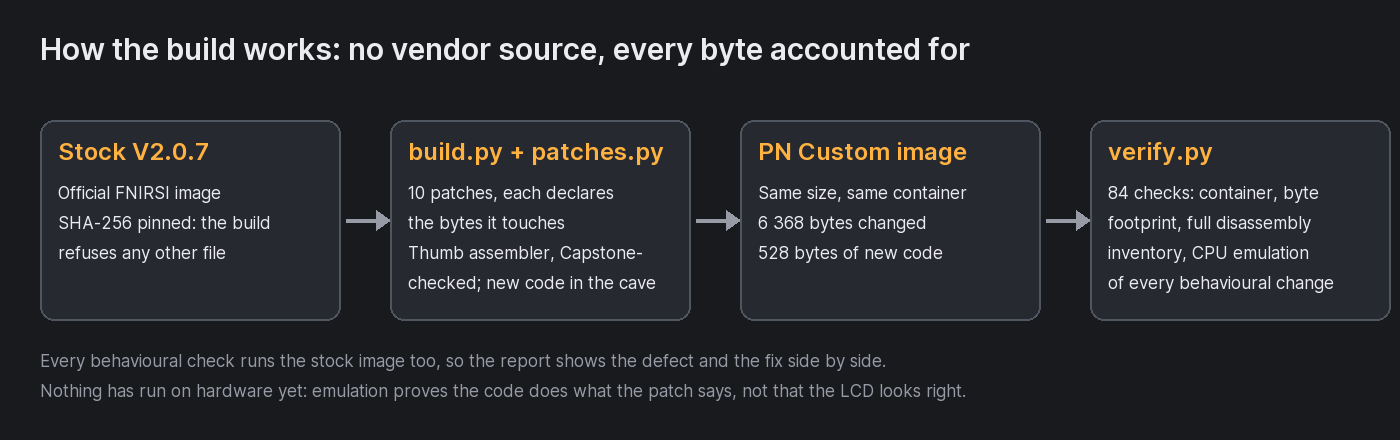
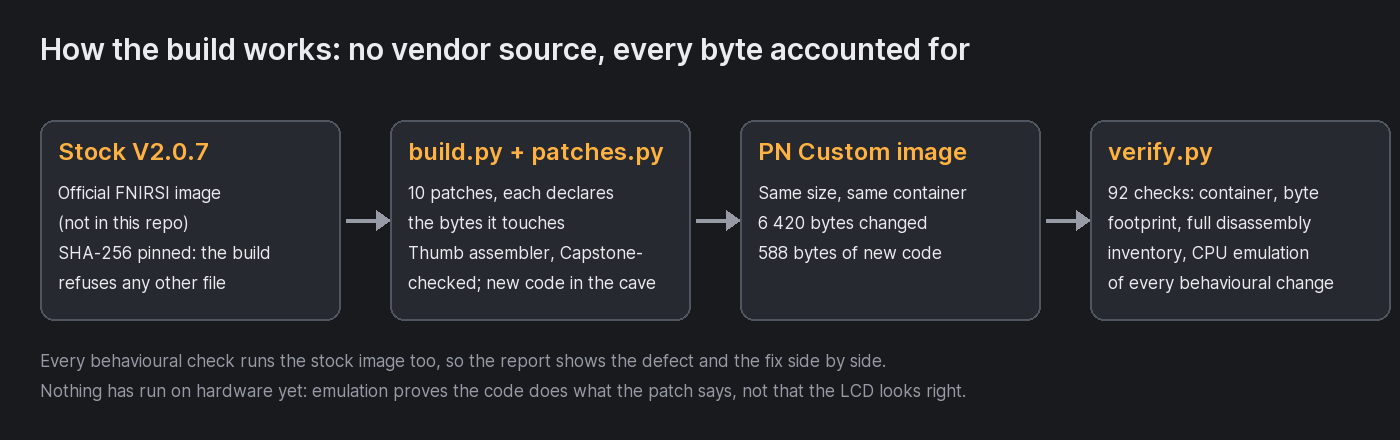
Hold Auto Off during SCAN tone / FLASH blink sessions (mod 4)
Stock already resets the auto-off idle counter on every key event
(Action_key_Process ends with autooff_timer_reset), so mod 1's
autooff-keyreset patch was redundant and its description was wrong.
It is removed.

What stock lacks is a pause while the unit is deliberately left alone
to do a job: the idle counter kept running during the SCAN tone and
the FLASH port-blink, so a trace ended with the tester switching
itself off. The new autooff-hold patch routes home_1s_housekeeping's
state read through the cave: while the state is SCAN with the tone
enabled, or FLASH with the blink running, it reports OFF (no counting)
and clears the counter so the full timeout applies afterwards.

verify.py section 4 now proves both facts: a key event through the
stock dispatcher resets the counter on stock and mod alike, and the
housekeeping holds only in SCAN/FLASH with the session flags set.
92 checks. Documents, audit and README corrected; image hash updated.

diff --git a/LPM-10A/Firmware File/sdk/verify.py b/LPM-10A/Firmware File/sdk/verify.py
@@ -9,7 +9,7 @@ Checks, in order:
   2  only the intended bytes differ from stock
   3  the whole image still disassembles into the same function inventory
      (a desync here would mean a patch shifted or corrupted code)
-  4  behavioural check of the auto-off fix under CPU emulation
+  4  auto-off: stock key-path reset (corrected claim) and the hold during tone / blink
   5  behavioural check of the boot-language default under CPU emulation
   6  length unit conversion (m / cm / ft, fixed point) against a reference model
   7  length on-screen text, produced by the firmware's own sprintf
@@ -149,7 +149,7 @@ except ImportError:
     check(False, "capstone not available")
 
 # ---------------------------------------------------------------- 4 & 5
-print("\n4. behaviour under emulation")
+print("\n4. auto-off: what stock really does, and the hold during tone / blink")
 try:
     from unicorn import Uc, UC_ARCH_ARM, UC_MODE_THUMB, UC_MODE_MCLASS
     from unicorn.arm_const import UC_ARM_REG_SP, UC_ARM_REG_LR, UC_ARM_REG_R0, UC_ARM_REG_PC
@@ -171,18 +171,56 @@ try:
         uc.emu_start(entry | 1, MAGIC, count=400)
         return uc
 
-    def setup_idle(uc):
-        uc.mem_write(0x2000013C, b"\x02")                       # sysState = HOME
+    # 4a. the corrected fact: stock resets the idle counter on every key event
+    #     (Action_key_Process -> autooff_timer_reset), so no key-reset patch is needed.
+    KEYBUF4 = 0x20003300
+    for label, buf in (("stock", stock), ("mod", mod)):
+        uc = Uc(UC_ARCH_ARM, UC_MODE_THUMB | UC_MODE_MCLASS)
+        o, ln = struct.unpack_from("<II", buf, 0x20)
+        uc.mem_map(0x08000000, 0x80000); uc.mem_map(0x20000000, 0x10000); uc.mem_map(MAGIC & ~0xFFF, 0x1000)
+        uc.mem_write(S.APP_BASE, buf[o:o + ln])
+        uc.mem_write(0x2000013C, bytes([4]))                     # sysState = CABLE (UP is unbound there)
         uc.mem_write(0x20000178, struct.pack("<H", 250))        # idle 250 s
-        uc.mem_write(0x200001A0, struct.pack("<I", 1234567))    # ms clock
-
-    for label, buf, want in (("stock", stock, 250), ("mod", mod, 0)):
-        uc = run(buf, S.FUNCS and 0x080116BC, setup_idle, r0=0x64)
+        uc.mem_write(KEYBUF4, bytes([2, 3]))                     # UP, click
+        uc.reg_write(UC_ARM_REG_SP, 0x2000E000); uc.reg_write(UC_ARM_REG_LR, MAGIC | 1)
+        uc.reg_write(UC_ARM_REG_R0, KEYBUF4)
+        uc.emu_start(0x080149FC | 1, MAGIC, count=200000)
         ctr = struct.unpack("<H", uc.mem_read(0x20000178, 2))[0]
-        dim = struct.unpack("<I", uc.mem_read(0x20000150, 4))[0]
-        ok = ctr == want and dim == 1234567 and uc.reg_read(UC_ARM_REG_PC) == (MAGIC & ~1)
-        check(ok, f"key press, {label:5}: auto-off 250 -> {ctr}",
-              "(expected: unchanged)" if want else "(expected: reset)")
+        check(ctr == 0 and uc.reg_read(UC_ARM_REG_PC) == (MAGIC & ~1),
+              f"{label:5}: any key event through Action_key_Process resets auto-off 250 -> {ctr}")
+
+    # 4b. the fix: the once-per-second housekeeping holds while a session runs
+    HOUSEKEEP = 0x0800F968
+    def tick(buf, state, tone=0, busy1=0, ctr=100, idx=1):
+        uc = Uc(UC_ARCH_ARM, UC_MODE_THUMB | UC_MODE_MCLASS)
+        o, ln = struct.unpack_from("<II", buf, 0x20)
+        uc.mem_map(0x08000000, 0x80000); uc.mem_map(0x20000000, 0x10000); uc.mem_map(MAGIC & ~0xFFF, 0x1000)
+        uc.mem_write(S.APP_BASE, buf[o:o + ln])
+        uc.mem_write(0x20000C78 + 0xA2, bytes([idx]))            # auto_off_idx (1 = 5 min)
+        uc.mem_write(0x2000013C, bytes([state]))
+        uc.mem_write(0x200000D0, bytes([tone]))                  # scan_state[0]: tone enabled
+        uc.mem_write(0x200002B5, bytes([busy1]))                 # test_busy_flags[1]: 2 = blink running
+        uc.mem_write(0x20000178, struct.pack("<H", ctr))
+        uc.reg_write(UC_ARM_REG_SP, 0x2000E000); uc.reg_write(UC_ARM_REG_LR, MAGIC | 1)
+        uc.emu_start(HOUSEKEEP | 1, MAGIC, count=5000)
+        return struct.unpack("<H", uc.mem_read(0x20000178, 2))[0]
+    cases = [  # (state, tone, busy1, stock expected, mod expected, label)
+        (5, 1, 0, 101, 0,   "SCAN, tone on         "),
+        (5, 0, 0, 101, 101, "SCAN, tone off        "),
+        (8, 0, 2, 101, 0,   "FLASH, blink running  "),
+        (8, 0, 0, 101, 101, "FLASH, blink finished "),
+        (2, 1, 2, 101, 101, "HOME (flags stale)    "),
+        (7, 0, 0, 101, 101, "LENGTH                "),
+    ]
+    for state, tone, busy1, want_s, want_m, label in cases:
+        got_s, got_m = tick(stock, state, tone, busy1), tick(mod, state, tone, busy1)
+        check((got_s, got_m) == (want_s, want_m),
+              f"{label} idle 100 s -> stock {got_s:3}, mod {got_m:3}",
+              "(held, counter restarted)" if want_m == 0 else "(counts as before)")
+    got = tick(mod, 5, 1, 0, ctr=299)
+    check(got == 0, "SCAN tone on at 299 s of a 300 s timeout: no power-off, counter cleared", f"{got}")
+    got = tick(mod, 5, 1, 0, idx=0)
+    check(got == 100, "Auto Off = OFF: routine returns before the hook, counter untouched", f"{got}")
 
     print("\n5. factory defaults under emulation")
     for label, buf, want in (("stock", stock, 1), ("mod", mod, 0)):

diff --git a/LPM-10A/Firmware File/sdk/patches.py b/LPM-10A/Firmware File/sdk/patches.py
@@ -32,28 +32,66 @@ def patch(pid, title, risk, default=True, group="misc"):
 # Group: correctness fixes
 # =====================================================================
 
-@patch("autooff-keyreset", "Auto Off no longer fires while the unit is in use",
+@patch("autooff-hold", "Auto Off is held while a SCAN tone or FLASH blink session is running",
        risk="low", group="bugfix")
-def p_autooff(img):
+def p_autooff_hold(img):
     """
-    key_activity_notify() (0x080116BC) runs on every processed key action.  It
-    refreshed the backlight-dim timer at 0x20000150 but never cleared the
-    auto-off idle counter at 0x20000178, so Auto Off counted from power-on
-    rather than from the last user input.
+    Stock already resets the auto-off idle counter on every key event
+    (Action_key_Process ends with autooff_timer_reset, 0x08014ACE) and after
+    every Length / Speed result.  What it never does is pause the counter
+    while the unit is deliberately left alone to do a job: the SCAN tone and
+    the FLASH port-blink keep running while home_1s_housekeeping counts, so
+    with Auto Off at 5 / 10 / 15 min the tester switches itself off in the
+    middle of a cable trace.  Professional toners keep the tone alive until
+    it is stopped.
 
-    r1 already holds 0x20000150 at the tail of the function and the counter is
-    at r1+0x28, so the reset fits in the 6 bytes of dead tail (nop + branch +
-    alignment padding) without moving anything.
+    home_1s_housekeeping (0x0800F968, once per second) reads the system
+    state and stops counting when it is 0 (OFF).  The `movs r0,#0; bl
+    get_sysState` that fetches the state is redirected to a cave routine that
+    returns 0 instead of the real state while
+
+        state == SCAN  (5) and scan_state[0] != 0      (tone enabled), or
+        state == FLASH (8) and test_busy_flags[1] == 2 (blink running),
+
+    and in that case also clears the idle counter, so the full timeout is
+    available again once the session ends.  Everywhere else the state is
+    returned unchanged and the behaviour is stock.
+
+    (Mod 1's `autooff-keyreset` patch, which this replaces, added a second
+    key-press reset that stock did not need.  Its description was wrong.)
     """
     from lpm10a.thumb import assemble
-    site = 0x080116D6
-    code = assemble(site, """
+
+    hook = img.emit_code("""
+    autooff_state:              ; -> r0 = sysState, or 0 while a tone / blink session is running
+            push {r4, lr}
             movs r0, #0
-            strh r0, [r1, #0x28]     ; auto_off_ctr = 0
-            b    0x080116C8          ; -> pop {r4, pc}
-    """)
-    assert len(code) == 6
-    img.poke(site, "00bf f6e7 0000", code, "reset auto-off idle timer on key input")
+            bl   get_sysState
+            mov  r4, r0
+            cmp  r0, #5             ; SCAN
+            bne  not_scan
+            ldr  r1, =scan_state
+            ldrb r1, [r1]           ; [0] = tone enabled
+            cmp  r1, #0
+            beq  out
+            b    hold
+    not_scan:
+            cmp  r0, #8             ; FLASH
+            bne  out
+            ldr  r1, =test_busy_flags
+            ldrb r1, [r1, #1]       ; 2 = port blink running
+            cmp  r1, #2
+            bne  out
+    hold:   movs r4, #0             ; report OFF: no idle counting this second
+            ldr  r1, =auto_off_ctr
+            strh r4, [r1]           ; and restart the timeout for afterwards
+    out:    mov  r0, r4
+            pop  {r4, pc}
+    """, why="auto-off: hold while SCAN tone / FLASH blink is active")
+
+    site = 0x0800F974
+    img.poke(site, "0020 fff7f5fe", assemble(site, f"bl 0x{hook:08X}\n nop"),
+             "home_1s_housekeeping: state via the hold check")
 
 
 # =====================================================================

diff --git a/LPM-10A/Firmware File/sdk/lpm10a/symbols.py b/LPM-10A/Firmware File/sdk/lpm10a/symbols.py
@@ -113,7 +113,8 @@ FUNCS = {
     0x0800F968: "home_1s_housekeeping",   # auto-off countdown
     0x0800F9C0: "autooff_timer_reset",    # auto_off_ctr = 0
     0x0800F9CC: "backlight_dim_update",
-    0x080116BC: "key_activity_notify",    # runs on every key action
+    0x080116BC: "key_activity_notify",    # runs on every dispatched action (backlight dim timer)
+    # note: Action_key_Process (0x080149FC) ends with autooff_timer_reset for EVERY key event
     0x080130A8: "test_in_progress",       # 1 while a measurement is running
 
     # --- power / battery -----------------------------------------------------
@@ -240,7 +241,7 @@ VARS = {
     0x20000076: ("leng_led_phase", 1),
     0x200000AC: ("poe_task_handle", 4),
     0x200000B0: ("poe_queue", 4),
-    0x200000D0: ("scan_state", 4),
+    0x200000D0: ("scan_state", 4),            # [0] tone enabled, [1] cadence 1/2, [3] display toggle
     0x200000D8: ("scan_tick", 4),
     0x2000013C: ("sysState", 1),              # 0=off 2=home 4..11=function screens
     0x20000140: ("home_task_handle", 4),
@@ -264,7 +265,7 @@ VARS = {
     0x20000200: ("xFreeBytesRemaining", 4),
     0x2000020C: ("xNumberOfSuccessfulFrees", 4),
     0x2000021C: ("cnt_baseline", 0x24),       # wiremap open-circuit reference
-    0x200002B4: ("test_busy_flags", 2),       # [0]=flash busy [1]=leng/speed busy
+    0x200002B4: ("test_busy_flags", 2),       # [0]=length 0/1/2/3 [1]=speed/flash: 1 running, 2 = FLASH blink active, 3 done
     0x200002B6: ("phy_status_reg11", 2),      # last PHY reg 0x11 read (speed/duplex)
     0x200002B8: ("leng_last_result_cm", 8),   # 4 channels
     0x200002C0: ("leng_unit_idx", 1),         # index into unit table at 0x2000005C (ZI -> 0 at boot)

diff --git a/README.md b/README.md
@@ -5,9 +5,9 @@
 **An unofficial, industrial-grade firmware for the FNIRSI LPM-10A network cable tester,
 built by patching the official V2.0.7 image and proving every change by CPU emulation.**
 
-![firmware](https://img.shields.io/badge/firmware-V2.0.7--mod3-orange)
+![firmware](https://img.shields.io/badge/firmware-V2.0.7--mod4-orange)
 ![patches](https://img.shields.io/badge/patches-10-blue)
-![verified](https://img.shields.io/badge/verify.py-84%20checks%20pass-brightgreen)
+![verified](https://img.shields.io/badge/verify.py-92%20checks%20pass-brightgreen)
 ![hardware](https://img.shields.io/badge/hardware%20test-pending-red)
 ![license](https://img.shields.io/badge/tooling%20license-MIT-lightgrey)
 
@@ -19,7 +19,7 @@ built by patching the official V2.0.7 image and proving every change by CPU emul
 
 > **Status: verified by emulation, not yet flashed to a real unit.**
 > Every change was checked by disassembly and by running the firmware's own code under a
-> Cortex-M emulator (84 checks). That proves the code does what each patch says; it does
+> Cortex-M emulator (92 checks). That proves the code does what each patch says; it does
 > not prove the LCD looks right. Flash at your own risk, and read
 > [How to go back to stock](#going-back-to-stock) first.
 
@@ -27,8 +27,8 @@ built by patching the official V2.0.7 image and proving every change by CPU emul
 
 The LPM-10A is a capable tester (Motorcomm YT8531 PHY, TDR length, PoE, wiremap) let down
 by its firmware: length shown in whole metres, no cable calibration, a low-battery
-shutdown armed by a single noisy ADC sample, an Auto-Off that switched the unit off while
-it was in use, a heap leak on every settings save, and the thin serif "dev-board" font.
+shutdown armed by a single noisy ADC sample, an Auto-Off that cut cable-tracing sessions
+short, a heap leak on every settings save, and the thin serif "dev-board" font.
 There is no vendor source, so this project works on the shipped binary: it disassembles
 it, adds code in an unused flash tail, re-assembles, and verifies the result in place.
 
@@ -41,7 +41,7 @@ it, adds code in an unused flash tail, re-assembles, and verifies the result in 
 | Length result | a new reading inside the tolerance band was replaced by the previous cable's value | the measured value is always shown |
 | Low battery | one sample < 3150 mV starts an uncancellable 30 s shutdown | needs 3 consecutive samples; cancels when the pack recovers ≥ 3250 mV |
 | Battery gauge | 4 steps | 10-step Li-ion curve, red at ≤ 20 % |
-| Auto Off | counted from power-on, never reset by keys | any key press resets it |
+| Auto Off | keeps counting while the SCAN tone or FLASH blink is running, so a trace ends with the unit switching itself off | held (and restarted) while a tone or blink session is active; unchanged elsewhere |
 | Settings save | 204 bytes leaked per save | freed on both exit paths |
 | Fonts | thin serif 8×16 ASCII, Song-style Chinese | **Ubuntu Sans Mono** (8×16, 6×12) and **Droid Sans Fallback** (16×16), both open-licensed |
 | Language | Chinese/English picker on first boot | boots to English; both languages kept, machine-translated strings corrected |
@@ -73,7 +73,7 @@ in the same cells so no screen layout changes.
 1. Verify the download:
    ```
    certutil -hashfile LPM-10A-TX_V2.0.7-mod_260610.bin SHA256
[2 lines of base64/hex data omitted]
    ```
 2. Power the tester off. Hold **M + Power** until the firmware update screen appears.
 3. Connect USB-C; a removable drive appears.
@@ -136,7 +136,7 @@ python test_thumb.py                # assembler self-test against Capstone
 python build.py --list              # the patch set
 python build.py                     # dry run: every byte it would change, disassembled
 python build.py --write             # emit LPM-10A-TX_V2.0.7-mod_260610.bin
-python verify.py                    # 84 checks
+python verify.py                    # 92 checks
 ```
 
 `build.py --only a,b` builds a subset; every patch is independent. `build.py` refuses to
@@ -147,7 +147,7 @@ What `verify.py` proves, section by section:
 | § | check | how |
 |---|---|---|
 | 1–3 | container, byte footprint, full disassembly inventory | any byte changed without being declared by a patch fails |
-| 4–5 | auto-off reset, factory defaults | run the functions, read the counters |
+| 4–5 | auto-off hold, factory defaults | a key event through the stock dispatcher (proves stock already resets on keys); the 1 s housekeeping in SCAN/FLASH with the session flags on and off |
 | 6–7 | unit conversion, on-screen text | 36 vectors; the text comes out of the firmware's own `sprintf` |
 | 8 | sticky result | 50 m previous, 52 m readings: stock keeps 50, mod stores 52 |
 | 9–10 | battery debounce and gauge | sample sequences, ADC + GPIO for the cancel path, 18-point curve |
@@ -163,7 +163,6 @@ documented in [`LPM-10A/Firmware File/sdk/README.md`](LPM-10A/Firmware%20File/sd
 
 ```
 LPM-10A/
-  README.txt, CHANGELOG.txt           FNIRSI's release notes for V2.0.7
   Firmware File/
     LPM-10A-TX_V2.0.7-mod_260610.bin  PN Custom image (the build output)
     LPM-10A-TX_V2.0.7_260610.bin      stock image: NOT included, put FNIRSI's copy here to build

diff --git a/LPM-10A/Firmware File/sdk/README.md b/LPM-10A/Firmware File/sdk/README.md
@@ -123,7 +123,7 @@ The assembler rejects anything it does not recognise rather than guessing, and
 
 | id | risk | group | what |
 |---|---|---|---|
-| `autooff-keyreset` | low | bugfix | Auto Off no longer powers the unit down while it is being used |
+| `autooff-hold` | low | bugfix | Auto Off is held (and restarted) while a SCAN tone or FLASH blink session is running; stock already resets it on every key event |
 | `boot-english` | low | english | Boot straight to English; no Chinese/English picker |
 | `english-strings` | safe | english | Corrects the machine-translated UI text |
 | `length-decimal` | low | measure | Length in **m / cm / ft with one decimal**, scaled by the NVP setting; the unit is remembered (stock: whole metres, inches, and cm forced on every screen entry) |
@@ -151,7 +151,7 @@ count inside its own declared range). Sections 4–17 execute the code:
 
 | § | check | how |
 |---|---|---|
-| 4 | auto-off reset on key | run `key_activity_notify`, read the idle counter |
+| 4 | auto-off | a key event through `Action_key_Process` resets the counter on stock too (the corrected claim); the 1 s housekeeping holds in SCAN/FLASH only while the session flags are set |
 | 5 | factory defaults | run the defaults writer, read the settings page image |
 | 6 | unit conversion | run `length_convert` for 12 values × 3 units against a Python reference |
 | 7 | on-screen text | run the cave formatter **through the firmware's own `sprintf`** and read the string |
@@ -248,7 +248,9 @@ they need a rebuild from vendor source:
   never report "unstable"; the intended threshold is not recoverable.
 
 Fixed since the first mod: single-sample low-battery shutdown, the settings
-save heap leak, the sticky length result, whole-metre display.
+save heap leak, the sticky length result, whole-metre display, Auto Off
+during tone / blink sessions. Mod 1's `autooff-keyreset` was removed: stock
+already resets the idle counter at the end of `Action_key_Process`.
 
 ## Fonts
 

diff --git a/LPM-10A/Firmware File/FORMULA-AUDIT.md b/LPM-10A/Firmware File/FORMULA-AUDIT.md
@@ -241,7 +241,7 @@ PC10 low = charging, PA15 low = standby (charge complete). GPIO reads. **OK**
 
 | item | value | verdict |
 |---|---|---|
-| Auto-off table 0x08064D72 | `{0, 300, 600, 900}` s = OFF / 5 / 10 / 15 min | **OK** (and now reset by any key: `autooff-keyreset`) |
+| Auto-off table 0x08064D72 | `{0, 300, 600, 900}` s = OFF / 5 / 10 / 15 min; stock resets the counter on every key event (`Action_key_Process` tail) | **FIXED**: the counter also ran during SCAN tone / FLASH blink sessions; `autooff-hold` pauses it there |
 | Battery table 0x08064D7A | `{4000, 3800, 3600}` mV | superseded by `batt-gauge` |
 | Backlight dim | `setting × 200 ms` of inactivity (`backlight_dim_update`) | **OK** |
 | Watchdog `iwdg_init` 0x0801B17E | writes **prescaler** = /32 (the function the SDK had named `iwdg_set_reload` writes IWDG+0x04 = PR, not RLR); RLR stays 0xFFF → ≈ 3.3 s at 40 kHz LSI | **NOTE**: a hard fault resets the unit in ~3.3 s |
